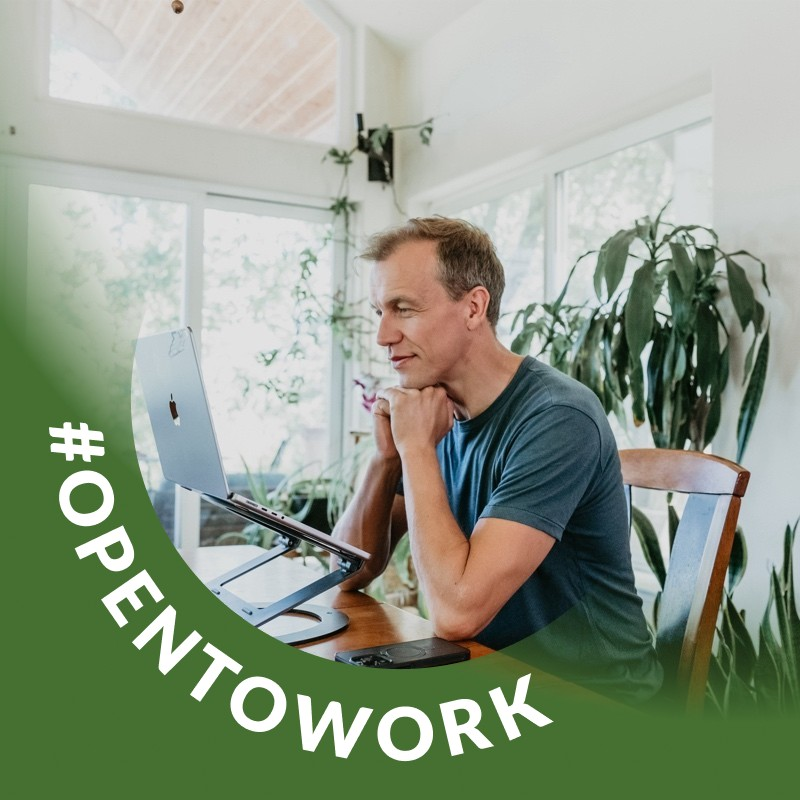
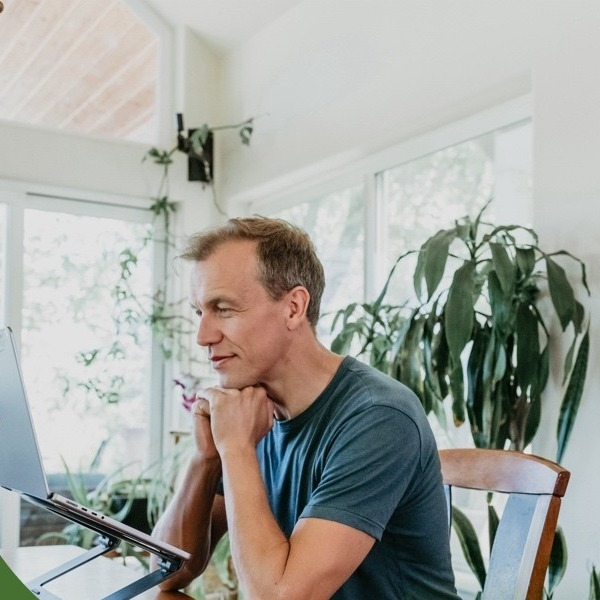
Crop photo to remove LinkedIn overlay; stack stats vertically
Photo: re-cropped 800x800 source to 600x600 from top-right region (x=180,
y=0) to exclude the LinkedIn #OPENTOWORK green wedge in the lower-left.

Stats: switched from 3-column grid to vertical stack so longer terms like
'Tech for good' don't wrap awkwardly. Each stat is now one row with the
number/term on the left and uppercase label on the right, separated by an
accent left-border for editorial feel.

diff --git a/styles.css b/styles.css
@@ -981,36 +981,40 @@ p { max-width: 68ch; }
 }
 
 .about-stats {
-  display: grid;
-  grid-template-columns: repeat(3, 1fr);
-  gap: 1rem;
+  display: flex;
+  flex-direction: column;
+  gap: 0.875rem;
   width: 100%;
 }
 
 .stat {
   background: transparent;
   border-radius: 0;
-  padding: 0;
+  padding: 0 0 0 1rem;
   text-align: left;
   box-shadow: none;
   border-left: 2px solid var(--clr-accent);
-  padding-left: 0.875rem;
+  display: grid;
+  grid-template-columns: minmax(0, auto) 1fr;
+  gap: 0.75rem;
+  align-items: baseline;
 }
 
 .stat-num {
   display: block;
   font-family: var(--font-display);
-  font-size: clamp(1.4rem, 2.6vw, 1.75rem);
+  font-size: 1.5rem;
   font-weight: 700;
   color: var(--clr-dark);
-  line-height: 1.1;
+  line-height: 1.15;
   letter-spacing: -0.015em;
-  margin-bottom: 0.25rem;
+  margin-bottom: 0;
+  white-space: nowrap;
 }
 
 .stat-label {
   display: block;
-  font-size: 0.7rem;
+  font-size: 0.75rem;
   font-weight: var(--fw-semibold);
   color: var(--clr-muted);
   text-transform: uppercase;